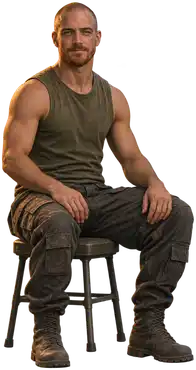
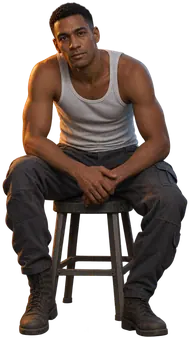
Give Pegasus crew original NPC art and in-room staging

diff --git a/carrier-crew.css b/carrier-crew.css
@@ -52,15 +52,15 @@ h1,h2,p,dl,dd{margin:0}
   height:min(45vh,450px);height:min(45dvh,450px);max-width:35vw;
  }
 }
-/* Resting crew are staged against the right-hand foreground, clear of Andy and room controls. */
+/* Resting crew are staged against the right side of the deck, clear of Andy and room controls. */
 .crew-resting-pilot{
  position:absolute;z-index:1;inset-inline-end:max(14%,env(safe-area-inset-right,0px));
- inset-block-end:calc(123px + env(safe-area-inset-bottom,0px));display:grid;justify-items:center;
+ inset-block-end:calc(clamp(136px,25dvh,228px) + env(safe-area-inset-bottom,0px));display:grid;justify-items:center;
  width:clamp(112px,25vw,245px);padding:0;border:0;background:none;color:#e6f1ef;cursor:pointer;
  touch-action:manipulation;-webkit-tap-highlight-color:transparent
 }
 .crew-resting-pilot img{display:block;width:100%;height:clamp(100px,34dvh,340px);object-fit:contain;object-position:center bottom;filter:drop-shadow(3px 6px 5px #05090bb8);user-select:none;pointer-events:none}
-.crew-resting-pilot[data-room-slot=berths],.crew-resting-pilot[data-room-slot=galley]{inset-inline-end:max(8%,env(safe-area-inset-right,0px))}
+.crew-resting-pilot[data-room-slot=berths],.crew-resting-pilot[data-room-slot=galley],.crew-resting-pilot[data-room-slot=observation]{inset-inline-end:max(8%,env(safe-area-inset-right,0px))}
 .crew-resting-tag{display:grid;align-content:center;justify-items:center;min-height:44px;min-width:82px;padding:3px 10px;border:1px solid #75aba4;border-radius:8px;background:#10252aeF;font-size:.85rem;line-height:1.2;box-shadow:0 3px 10px #05090ba8}
 .crew-resting-tag span{font-size:.65rem;color:#b5d9d7}
 .crew-resting-pilot:hover .crew-resting-tag,.crew-resting-pilot:focus-visible .crew-resting-tag{border-color:#f8d686;color:#fff4d4}
@@ -69,9 +69,47 @@ h1,h2,p,dl,dd{margin:0}
 #crew-chat-line{line-height:1.5}
 #crew-chat-progress:not(:empty){margin-top:10px;color:#bce7d8}
 .crew-pilot-chat .formation-actions{margin-top:14px;align-items:center;justify-content:flex-end}
+@media(max-height:440px){.crew-resting-pilot{inset-block-end:calc(100px + env(safe-area-inset-bottom,0px))}}
 @media(orientation:portrait){
  .crew-resting-pilot{width:clamp(110px,37vw,235px)}
  .crew-resting-pilot img{height:clamp(112px,32dvh,260px)}
+}
+/* Match the rear edge of the tabletop in each room image. Only Tomas’ upper
+   body is drawn above it; the picture underneath supplies the real occluder. */
+.crew-resting-pilot[data-pilot=ellis][data-room-slot=observation]{
+ --exposed:clamp(48px,15dvh,145px);
+ --table-edge:calc(50% + max(5.0vw,8.9dvh));
+ position:absolute;inset-inline-start:min(88%,calc(50% + max(26.5vw,47.1dvh)));
+ inset-inline-end:auto;inset-block-start:calc(var(--table-edge) - var(--exposed));inset-block-end:auto;
+ translate:-50% 0;width:clamp(50px,16dvh,155px);height:var(--exposed)
+}
+.crew-resting-pilot[data-pilot=ellis][data-room-slot=observation] img{
+ position:absolute;inset:0 auto auto 0;width:100%;height:auto;filter:none;
+ clip-path:polygon(0 0,100% 0,100% calc(var(--exposed) + 2px),0 var(--exposed))
+}
+.crew-resting-pilot[data-pilot=ellis][data-room-slot=observation] .crew-resting-tag{
+ position:absolute;inset-inline-start:50%;inset-block-end:100%;translate:-50% 0;min-width:68px;padding-inline:6px
+}
+@media(orientation:portrait){
+ .crew-resting-pilot[data-pilot=ellis][data-room-slot=observation]{
+  --exposed:clamp(54px,max(20vw,11.25dvh),125px);
+  --table-edge:max(62.05vw,34.9dvh);
+  inset-inline-start:min(74%,calc(50% + max(17vw,9.56dvh)));
+  width:clamp(64px,max(24vw,13.5dvh),145px)
+ }
+}
+/* The noticeboard ends just left of center in both compositions. */
+.crew-resting-pilot[data-pilot=aya][data-room-slot=common]{
+ inset-inline-start:51%;inset-inline-end:auto;inset-block-end:auto;inset-block-start:31%;
+ width:13%;min-width:44px
+}
+.crew-resting-pilot[data-pilot=aya][data-room-slot=common] img{height:43dvh}
+.crew-resting-pilot[data-pilot=aya][data-room-slot=common] .crew-resting-tag{min-width:0;width:max-content;max-width:min(24vw,110px);padding-inline:7px}
+.crew-pilot-chat[data-stage=pinboard]{position:fixed;inset:auto auto max(76px,calc(58px + env(safe-area-inset-bottom,0px))) max(12px,env(safe-area-inset-left,0px));margin:0;width:min(380px,calc(100vw - 24px));max-height:65dvh}
+.crew-pilot-chat[data-stage=pinboard]::backdrop{background:#03080b45}
+@media(orientation:portrait){
+ .crew-resting-pilot[data-pilot=aya][data-room-slot=common]{inset-inline-start:46.5%;inset-block-start:max(54px,16vw);width:15%}
+ .crew-resting-pilot[data-pilot=aya][data-room-slot=common] img{height:clamp(53px,28vw,162px);clip-path:inset(0 0 9%)}
 }
 .enemy-board,.class-board,.squadron-board,.mission-board{z-index:2}
 

diff --git a/carrier-crew.html b/carrier-crew.html
@@ -6,9 +6,10 @@
 <meta name="theme-color" content="#08131a">
 <title>Crew Quarters · Rift Runner</title>
 <link rel="icon" type="image/png" href="./rift-192.png">
-<link rel="stylesheet" href="./carrier-crew.css?v=184">
+<link rel="stylesheet" href="./carrier-crew.css?v=185">
 <script src="./pilot-missions.js?v=114" defer></script>
-<script src="./wing-rendezvous.js?v=184" defer></script>
+<script src="./wing-rendezvous.js?v=185" defer></script>
+<link rel="preload" href="./crew-pilot-aya-resting.webp?v=185" as="image">
 </head>
 <body>
 <main class="quarters" aria-labelledby="quarters-title">
@@ -178,7 +179,7 @@
   <h2 id="crew-formation-title">Formation Deck</h2>
   <section class="wing-roster" id="crew-wing-roster" aria-labelledby="crew-wing-roster-title" hidden>
    <h3 id="crew-wing-roster-title">Three-pilot wing roster</h3>
-   <ul><li id="crew-wing-roster-you">You</li><li>Aya</li><li>Ellis</li></ul>
+   <ul><li id="crew-wing-roster-you">You</li><li>Leena</li><li>Tomas</li></ul>
   </section>
   <label class="formation-mode-label" for="formation-mode">Mission</label>
   <select id="formation-mode" class="control" aria-describedby="formation-test-note"><option value="test">Wingman vs Vandul · Test</option><option value="qualification">Admiral’s Wingman qualification</option></select>
@@ -322,8 +323,8 @@
  const roomIdByName={'Crew Berths':'berths','Common Room':'common','Galley':'galley','Observation Lounge':'observation'};
  const roomId=()=>roomIdByName[rooms[current].dataset.room];
  const restingPilots=[
-  {id:'aya',name:'Aya',rest:'common',idle:'Just taking a breather between flights.',join:'I’m in. I’ll get my Rift-4 ready.',ready:'I’m ready when you are.'},
-  {id:'ellis',name:'Ellis',rest:'observation',idle:'It’s quiet here between shifts. I’m making the most of it.',join:'Count me in. I’ll be ready to fly with you.',ready:'I’m checked in and ready to fly.'}
+  {id:'aya',name:'Leena',rest:'common',idle:'Just taking a breather between flights.',join:'I’m in. I’ll get my Rift-4 ready.',ready:'I’m ready when you are.'},
+  {id:'ellis',name:'Tomas',rest:'observation',idle:'It’s quiet here between shifts. I’m making the most of it.',join:'Count me in. I’ll be ready to fly with you.',ready:'I’m checked in and ready to fly.'}
  ];
  function pilotInRoom(state){
   const room=roomId();
@@ -342,9 +343,11 @@
   resting.hidden=!pilot;
   if(!pilot)return;
   resting.setAttribute('data-room-slot',roomId());
+  resting.setAttribute('data-pilot',pilot.id);
   get('crew-resting-name').textContent=pilot.name;
   get('crew-resting-note').textContent=state?.met[pilot.id]?'Checked in':state?'Rendezvous':'Off duty';
-  const src='./crew-pilot-'+pilot.id+'-resting.webp?v=184';
+  const facesBoard=pilot.id==='aya'&&roomId()==='common'&&chatState?.pilot.id!=='aya';
+  const src='./crew-pilot-'+pilot.id+(facesBoard?'-back':'-resting')+'.webp?v=185';
   if(restingArt.getAttribute('src')!==src){
    restingArt.hidden=false;
    restingArt.setAttribute('src',src);
@@ -354,7 +357,7 @@
   get('crew-chat-title').textContent=pilot.name;
   get('crew-chat-line').textContent=line??(state?.met[pilot.id]?pilot.ready:state?`Bishop sent you? I’m listening.`:pilot.idle);
   const count=Number(Boolean(state?.met.aya))+Number(Boolean(state?.met.ellis));
-  get('crew-chat-progress').textContent=state?(state.completedAt!==null?'Wing formed. You, Aya and Ellis are on the roster.':`${count} of 2 pilots checked in.`):'';
+  get('crew-chat-progress').textContent=state?(state.completedAt!==null?'Wing formed. You, Leena and Tomas are on the roster.':`${count} of 2 pilots checked in.`):'';
   checkIn.hidden=!state||Boolean(state.met[pilot.id]);
  }
  restingArt?.addEventListener('error',()=>{restingArt.hidden=true;});
@@ -363,7 +366,10 @@
   const api=window.RiftRendezvous,state=api?.get(),pilot=pilotInRoom(state);
   if(!pilot)return;
   chatState={pilot,room:roomId(),generation:api?.generation(),acceptedAt:state?.acceptedAt};
+  if(pilot.id==='aya'&&roomId()==='common')chat.setAttribute('data-stage','pinboard');
+  else chat.removeAttribute('data-stage');
   renderChat(pilot,state);
+  refreshResting();
   chat.showModal();
  });
  checkIn?.addEventListener('click',()=>{
@@ -380,6 +386,8 @@
  });
  chat?.addEventListener('close',()=>{
   chatState=null;
+  chat.removeAttribute('data-stage');
+  refreshResting();
   (resting.hidden?next:resting).focus({preventScroll:true});
  });
  document.addEventListener('DOMContentLoaded',refreshResting);

diff --git a/wing-rendezvous.js b/wing-rendezvous.js
@@ -2,11 +2,12 @@
 (() => {
  const key='rift-runner.wing-rendezvous.v1', generationKey='rift-runner.character-generation.v1';
  const pilots=Object.freeze([
-  Object.freeze({id:'aya',name:'Aya'}),
-  Object.freeze({id:'ellis',name:'Ellis'})
+  Object.freeze({id:'aya',name:'Leena'}),
+  Object.freeze({id:'ellis',name:'Tomas'})
  ]);
  const rooms=Object.freeze({berths:'Crew Berths',common:'Common Room',galley:'Galley',observation:'Observation Lounge'});
  const roomIds=Object.keys(rooms);
+ const stations=Object.freeze({aya:'common',ellis:'observation'});
  const generation=()=>{try{return window.localStorage.getItem(generationKey);}catch{return undefined;}};
  const timestamp=value=>Number.isSafeInteger(value)&&value>0;
  const parse=(raw,gen)=>{
@@ -17,7 +18,7 @@
     !roomIds.includes(places?.aya)||!roomIds.includes(places?.ellis)||places.aya===places.ellis||
     typeof met?.aya!=='boolean'||typeof met?.ellis!=='boolean'||
     (met.aya&&met.ellis?!timestamp(completedAt)||completedAt<acceptedAt:completedAt!==null))return null;
-   return {acceptedAt,rooms:{aya:places.aya,ellis:places.ellis},met:{aya:met.aya,ellis:met.ellis},completedAt};
+   return {acceptedAt,rooms:{...stations},met:{aya:met.aya,ellis:met.ellis},completedAt};
   }catch{return null;}
  };
  const get=()=>{try{return parse(window.localStorage.getItem(key),generation());}catch{return null;}};
@@ -36,9 +37,7 @@
  }
  const accept=expected=>update(expected,old=>{
   if(old)return old;
-  const choices=[...roomIds],aya=choices.splice(Math.floor(Math.random()*choices.length),1)[0];
-  const ellis=choices[Math.floor(Math.random()*choices.length)];
-  return {acceptedAt:Date.now(),rooms:{aya,ellis},met:{aya:false,ellis:false},completedAt:null};
+  return {acceptedAt:Date.now(),rooms:{...stations},met:{aya:false,ellis:false},completedAt:null};
  });
  const meet=(id,room,expected,acceptedAt)=>update(expected,old=>{
   if(!old||old.acceptedAt!==acceptedAt||!pilots.some(pilot=>pilot.id===id)||old.rooms[id]!==room)return null;

diff --git a/carrier-bridge.js b/carrier-bridge.js
@@ -7,7 +7,7 @@
  const accept=get('mission-accept'),launch=get('mission-launch'),picker=get('mission-picker'),selector=get('mission-select');
  const log=window.RiftMissions,scene=get('bridge-scene'),qualifications=log?.qualifications??[];
  const rendezvous=window.RiftRendezvous,crew=get('mission-crew'),wing='rendezvous';
- const wingTitle='Wing Rendezvous',wingOrder='“Aya and Ellis are off duty. Find them in the Crew Quarters and ask them to fly with you. The three of you will form a wing.”';
+ const wingTitle='Wing Rendezvous',wingOrder='“Leena and Tomas are off duty. Look by the Common Room pinboard and behind the table in the Observation Lounge. Ask them to fly with you. The three of you will form a wing.”';
  const missionCards=new Map([['intercept',{
   title:'Vandul Intercept',number:'04',order:'“Vandul fighters are approaching the carrier. Intercept them, clear all six waves, then report back to me.”'
  }],...qualifications.map(({id,rank})=>[id,{rank,title:rank+' Qualification',
@@ -89,9 +89,9 @@
   if(isWing){
    const met=Number(!!mission?.met.aya)+Number(!!mission?.met.ellis);
    status.textContent=mission?.completedAt?'Wing formed':mission?met+'/2 pilots met':'Mission available';
-   next.textContent=mission?.completedAt?'You, Aya and Ellis are ready to fly as a three-pilot wing.':mission?
+   next.textContent=mission?.completedAt?'You, Leena and Tomas are ready to fly as a three-pilot wing.':mission?
     'Visit the Crew Quarters and talk to both pilots. Check the different rooms: they won’t both be in the same place.':
-    'Accept the mission, then go to the Crew Quarters to find Aya and Ellis.';
+    'Accept the mission, then go to the Crew Quarters to find Leena and Tomas.';
    return;
   }
   if(stage==='none')return;

diff --git a/carrier-bridge.html b/carrier-bridge.html
@@ -9,8 +9,8 @@
 <link rel="stylesheet" href="./carrier-bridge.css?v=94">
 <script src="./pilot-credits.js?v=79" defer></script>
 <script src="./pilot-missions.js?v=108" defer></script>
-<script src="./wing-rendezvous.js?v=184" defer></script>
-<script src="./carrier-bridge.js?v=184" defer></script>
+<script src="./wing-rendezvous.js?v=185" defer></script>
+<script src="./carrier-bridge.js?v=185" defer></script>
 </head>
 <body>
 <main class="bridge" aria-labelledby="bridge-title">

diff --git a/index.html b/index.html
@@ -17,7 +17,7 @@
 <script src="ballistic-sfx.js?v=13" defer></script>
 <script src="ballistic-burst-echo-sfx.js?v=2" defer></script>
 <script src="pilot-missions.js?v=114" defer></script>
-<script src="wing-rendezvous.js?v=184" defer></script>
+<script src="wing-rendezvous.js?v=185" defer></script>
 <script src="pilot-credits.js?v=104" defer></script>
 <script src="game.js?v=184" defer></script>
 </head>
